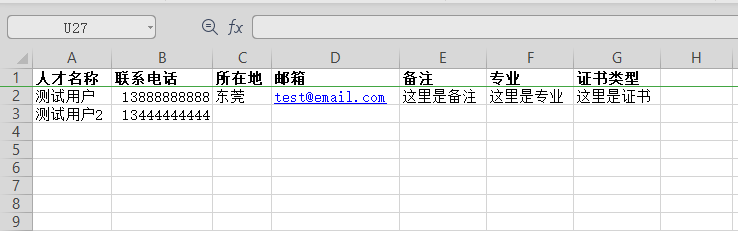
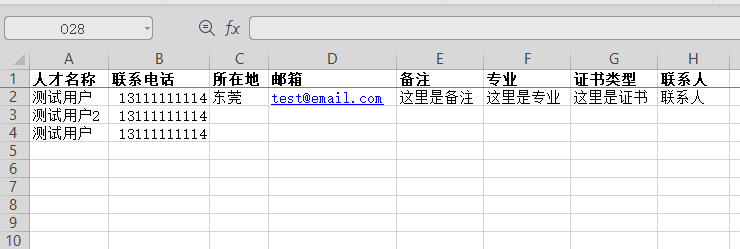
update

diff --git a/view/common/customer/index.html b/view/common/customer/index.html
@@ -123,6 +123,7 @@
                     <th lay-data="{type: 'checkbox', fixed: 'left'}"></th>
                     <th lay-data="{field: 'id', title: 'ID', align: 'center', width: 100, fixed: 'left'}"></th>
                     <th lay-data="{field: 'title', title: '{$typeText}名称', align: 'center', width: 200}"></th>
+                    <th lay-data="{field: 'contact', title: '联系人', align: 'center', width: 100}"></th>
                     <th lay-data="{field: 'phone', title: '联系电话', align: 'center', style: 'cursor: pointer;', templet: '#phone', event: 'showPhone', width: 150}"></th>
                     <th lay-data="{field: 'province', title: '所在地', align: 'center', width: 100}"></th>
                     <th lay-data="{field: 'comment', title: '备注', align: 'center', width: 240}"></th>

diff --git a/view/common/customer/edit.html b/view/common/customer/edit.html
@@ -26,6 +26,12 @@
             </div>
 
             <div class="mb-3">
+                <label class="form-label" for="contact">联系人</label>
+                <input type="text" name="contact" id="contact" placeholder="联系人"
+                       autocomplete="off" class="form-control" value="" required>
+            </div>
+
+            <div class="mb-3">
                 <label class="form-label" for="phone">手机号</label>
                 <input type="text" name="phone" id="phone" placeholder="手机号"
                        autocomplete="off" class="form-control" value="" required>

diff --git a/public/static/js/common/customer.js b/public/static/js/common/customer.js
@@ -130,7 +130,6 @@ layui.use(['layer', 'miniTab', 'element', 'table', 'form', 'laydate', 'dropdown'
                     id = $('[name="id"]').val(),
                     url = id ? REQUEST_CONFIG.EDIT_URL : REQUEST_CONFIG.ADD_URL
 
-                console.log(id)
                 $.post(url, formData, function (res) {
                     let option = {title: res.msg}
                     if (res.code === 1) {

diff --git a/app/common.php b/app/common.php
@@ -153,15 +153,16 @@ if (!function_exists('readExcel')) {
         }
 
         for ($i = 2; $i <= $highestRow; $i++) {
-            $title = $sheet->getCellByColumnAndRow(1, $i)->getValue();
-            $phone = $sheet->getCellByColumnAndRow(2, $i)->getValue();
-            $province = $sheet->getCellByColumnAndRow(3, $i)->getValue();
-            $email = $sheet->getCellByColumnAndRow(4, $i)->getValue();
-            $comment = $sheet->getCellByColumnAndRow(5, $i)->getValue();
-            $professional = $sheet->getCellByColumnAndRow(6, $i)->getValue();
-            $certificate = $sheet->getCellByColumnAndRow(7, $i)->getValue();
+            $title = trim($sheet->getCellByColumnAndRow(1, $i)->getValue());
+            $phone = trim($sheet->getCellByColumnAndRow(2, $i)->getValue());
+            $province = trim($sheet->getCellByColumnAndRow(3, $i)->getValue());
+            $email = trim($sheet->getCellByColumnAndRow(4, $i)->getValue());
+            $comment = trim($sheet->getCellByColumnAndRow(5, $i)->getValue());
+            $professional = trim($sheet->getCellByColumnAndRow(6, $i)->getValue());
+            $certificate = trim($sheet->getCellByColumnAndRow(7, $i)->getValue());
+            $contact = trim($sheet->getCellByColumnAndRow(8, $i)->getValue());
             $customer = null;
-            if ($title && $phone && is_numeric($phone)) {
+            if ($title && $phone && validateMobile($phone)) {
                 if (!$is_repeat_customer) {
                     $customer = \app\common\model\Customer::where([
                         'phone' => $phone,
@@ -172,13 +173,14 @@ if (!function_exists('readExcel')) {
 
                 if (($customer && $customer->isEmpty()) || $is_repeat_customer) {
                     $log[] = array_merge($appendColumns, [
-                        'title' => trim($title),
-                        'phone' => trim($phone),
-                        'province' => trim($province ?? ''),
-                        'email' => trim($email ?? ''),
-                        'comment' => trim($comment ?? ''),
-                        'professional' => trim($professional ?? ''),
-                        'certificate' => trim($certificate ?? ''),
+                        'title' => $title,
+                        'phone' => $phone,
+                        'province' => $province ?? '',
+                        'email' => $email ?? '',
+                        'comment' => $comment ?? '',
+                        'professional' => $professional ?? '',
+                        'certificate' => $certificate ?? '',
+                        'contact' => $contact ?? '',
                     ]);
                 }
             }
@@ -210,4 +212,70 @@ function getDateFormatInfo($time)
     return date('Y-m-d H:i:s', $time);
 }
 
+/**
+ * 验证手机号
+ *
+ * @param $mobile
+ * @return bool
+ */
+function validateMobile($mobile)
+{
+    if (strlen($mobile) !== 11) {
+        return false;
+    }
+
+    $prefix = substr($mobile, 0, 3);
+
+    /**
+     * 中国移动: 134/135/136/137/138/139/150/151/152/157/158/159/182/183/184/187/188/198
+     * 中国联通: 130/131/132/155/156/185/186/166
+     * 中国电信: 133/149/153/173/177/180/181/189/199
+     */
+    $prefixes = [
+        '134',
+        '135',
+        '136',
+        '137',
+        '138',
+        '139',
+        '150',
+        '151',
+        '152',
+        '157',
+        '158',
+        '159',
+        '182',
+        '183',
+        '184',
+        '187',
+        '188',
+        '198',
+        '130',
+        '131',
+        '132',
+        '155',
+        '156',
+        '185',
+        '186',
+        '166',
+        '133',
+        '149',
+        '153',
+        '173',
+        '177',
+        '180',
+        '181',
+        '189',
+        '199'
+    ];
+
+    /**
+     * 11 位手机号码
+     * 带区号的11位电话号码
+     * 带‘-’的11位电话号码
+     */
+    return (in_array($prefix, $prefixes, true) && preg_match('/^1[3-9]\d{9}$/', $mobile)) ||
+        preg_match('/^0\d{2,3}\d{7,8}$/', $mobile) ||
+        preg_match('/^(\d{3}-|\d{4}-)?\d{7,8}$/', $mobile);
+}
 

diff --git a/app/common/traits/CustomerTrait.php b/app/common/traits/CustomerTrait.php
@@ -217,6 +217,11 @@ trait CustomerTrait
             $this->returnData['msg'] = '添加失败';
             $param = $this->request->param();
 
+            if (!validateMobile($param['phone'])) {
+                $this->returnData['msg'] = '请填写正确的电话号码';
+                return json($this->returnData);
+            }
+
             if ($this->module === 'home') {
                 if ($this->userInfo->company->recycle_on && $this->checkCustomerNumForUser($this->userInfo)) {
                     $this->returnData['msg'] = '已超出数量限制。如有问题请联系管理员';

diff --git a/app/home/controller/HbCall.php b/app/home/controller/HbCall.php
@@ -90,7 +90,7 @@ class HbCall extends \app\common\controller\HomeController
             }
         }
 
-        if (!$mobile || strlen($mobile) < 11 || !is_numeric($mobile)) {
+        if (!$mobile || !validateMobile($mobile)) {
             $this->returnData['msg'] = lang('Please enter the correct mobile phone number');
             $this->returnData['info'] = lang('Tips');
             $this->returnData['status'] = 0;
